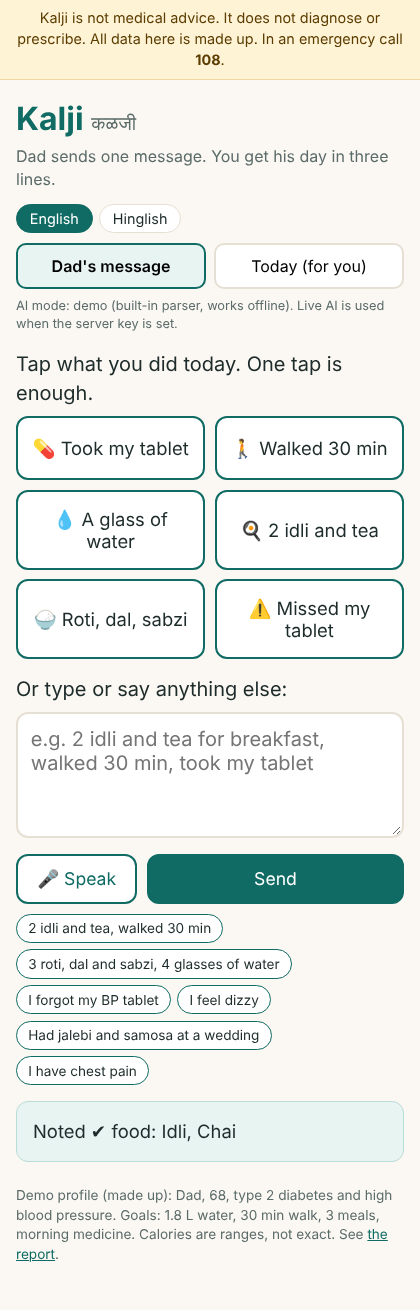
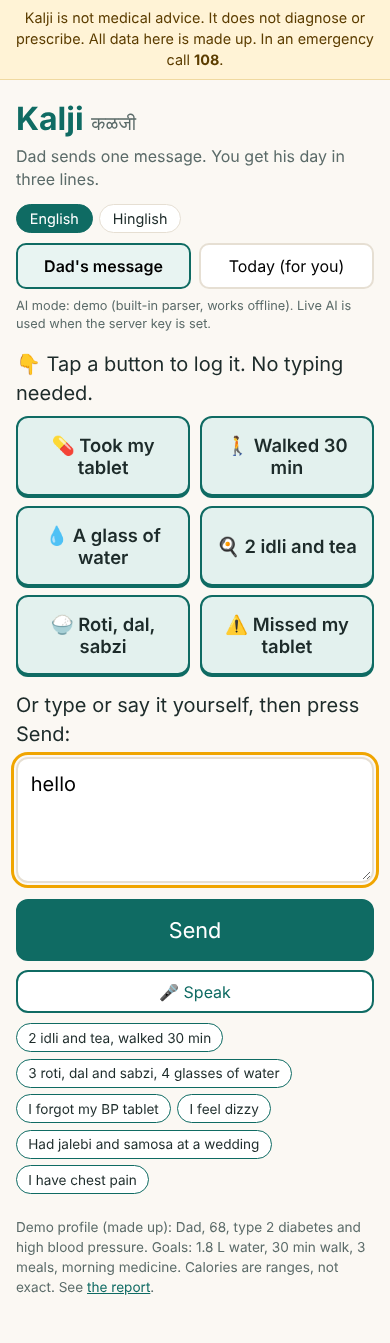
Q5 fixes: prominent Send, Enter to send, clearer presets, no-update summary wording; Q2 carers, Q5 report
Claude-Session: https://claude.ai/code/session_01A6zbvKyW5WtrDcwX4La53Q

diff --git a/app.js b/app.js
@@ -12,7 +12,7 @@
       notice: 'Kalji is not medical advice. It does not diagnose or prescribe. All data here is made up. In an emergency call <b>108</b>.',
       sub: 'Dad sends one message. You get his day in three lines.',
       tabPapa: "Dad's message", tabMe: 'Today (for you)',
-      prompt: 'Tap what you did today. One tap is enough.', prompt2: 'Or type or say anything else:', quickH: 'Quick log',
+      prompt: '👇 Tap a button to log it. No typing needed.', prompt2: 'Or type or say it yourself, then press Send:', quickH: 'Quick log',
       quick: [['💊 Took my tablet','I took my tablet'],['🚶 Walked 30 min','I walked 30 min'],['💧 A glass of water','I drank 1 glass of water'],['🍳 2 idli and tea','2 idli and tea'],['🍚 Roti, dal, sabzi','2 roti, dal and sabzi'],['⚠ Missed my tablet','I forgot my tablet']],
       ph: 'e.g. 2 idli and tea for breakfast, walked 30 min, took my tablet',
       mic: '🎤 Speak', send: 'Send', today: "Dad's day so far",
@@ -23,6 +23,7 @@
       alert1: 'This could be serious', alert2: 'See a doctor now or <a href="tel:108">call 108</a>. Kalji is not a doctor, so please do not wait on this.',
       q_walk: 'You mentioned a walk. How many minutes?', q_med: 'You mentioned medicine. Did you take it, or miss it?', q_dish: 'You ate something, but I did not recognise the dish. What was it?', q_nothing: 'I could not find food, water, a walk, medicine or a symptom in that message. Please try again.', q_empty: 'Please type something first.',
       micErr: 'The mic is not working. Please type instead.',
+      sNoData: 'No update from Dad yet today. That is not an alarm: he may be busy or resting. An alert appears only when a message mentions a warning sign.',
       nothingYet: 'Nothing logged yet', kcalSoFar: 'About {a}–{b} kcal so far (estimate)', waterOf: '{a} of {b} ml', walkOf: '{a} of {b} min',
       medTaken: 'Taken ✔', medMissed: 'Missed. Please call him.', medNone: 'Not mentioned yet', symNone: 'Nothing reported',
       sRed: 'Dad reported {x}. Call him now; if unreachable, call 108.', sMeals: 'Meals: {n} items logged, looks regular.', sMealsSo: 'Meals: {n} items so far', sNoLunch: ' (nothing since morning)',
@@ -36,7 +37,7 @@
       notice: 'Kalji medical advice nahi hai. Yeh diagnose ya dawai prescribe nahi karta. Yahan ka saara data made-up hai. Emergency me <b>108</b> call karo.',
       sub: 'Papa ek message bhejte hain. Aapko unka din teen lines me mil jata hai.',
       tabPapa: 'Papa ka message', tabMe: 'Aaj (aapke liye)',
-      prompt: 'Aaj kya kiya, bas tap karo. Ek tap kaafi hai.', prompt2: 'Ya kuch aur likho ya bolo:', quickH: 'Jaldi log karo',
+      prompt: '👇 Button dabao, log ho jayega. Likhna nahi padega.', prompt2: 'Ya khud likho ya bolo, phir Bhejo dabao:', quickH: 'Jaldi log karo',
       quick: [['💊 Goli li','goli li'],['🚶 30 min walk','30 min walk kiya'],['💧 Ek glass pani','1 glass pani piya'],['🍳 2 idli aur chai','2 idli aur chai'],['🍚 Roti dal sabzi','2 roti dal sabzi khayi'],['⚠ Goli bhool gaye','goli bhool gaye']],
       ph: 'jaise: subah 2 idli aur chai, 30 min walk, goli li',
       mic: '🎤 Bolo', send: 'Bhejo', today: 'Papa ka aaj ka din abhi tak',
@@ -47,6 +48,7 @@
       alert1: 'Yeh serious ho sakta hai', alert2: 'Abhi doctor ko dikhao ya <a href="tel:108">108 call karo</a>. Kalji doctor nahi hai, aur is par wait mat karo.',
       q_walk: 'Walk ki baat ki, kitne minute?', q_med: 'Dawai ki baat ki, li ya chhoot gayi?', q_dish: 'Kuch khaya, par mujhe dish samajh nahi aayi. Kya khaya tha?', q_nothing: 'Is message me khana, pani, walk, dawai ya koi takleef nahi mili. Dobara likho.', q_empty: 'Pehle kuch likho.',
       micErr: 'Mic kaam nahi kar raha. Please type kar do.',
+      sNoData: 'Papa ka aaj abhi tak koi update nahi aaya. Yeh alarm nahi hai: ho sakta hai busy ya aaram kar rahe hon. Alert tab aata hai jab message me koi warning sign ho.',
       nothingYet: 'Abhi kuch log nahi hua', kcalSoFar: 'Abhi tak lagbhag {a}–{b} kcal (andaza)', waterOf: '{b} ml me se {a} ml', walkOf: '{b} min me se {a} min',
       medTaken: 'Li ✔', medMissed: 'Chhoot gayi. Please unhe call karo.', medNone: 'Abhi bataya nahi', symNone: 'Koi takleef nahi batayi',
       sRed: 'Papa ne {x} bataya. Abhi call karo; na lage to 108.', sMeals: 'Khana: {n} items, theek lag raha hai.', sMealsSo: 'Khana: abhi tak {n} items', sNoLunch: ' (subah ke baad kuch nahi)',
@@ -169,6 +171,7 @@
     t.symptoms.forEach(function (x) { watch.push(symName(x)); });
     t.meals.forEach(function (m) { if (m.flags.indexOf('high sugar') >= 0) watch.push(tr('wSweet')); });
     s.push(watch.length ? '<span class="warn">' + esc(tr('sWatch', { x: watch.filter(function (v, i, a) { return a.indexOf(v) === i; }).join(', ') })) + '</span>' : tr('sOk'));
+    if (!today().day.entries.length) s = [tr('sNoData')];
     $('summary').innerHTML = s.map(function (x) { return '<li>' + x + '</li>'; }).join('');
 
     // proactive nudge: Kalji decides what to ask next, and drafts the message for the child to send
@@ -192,7 +195,7 @@
   $('tab-papa').onclick = function () { tab('papa'); };
   $('tab-me').onclick = function () { tab('me'); };
   $('send').onclick = function () { send(); };
-  $('msg').addEventListener('keydown', function (e) { if (e.key === 'Enter' && (e.ctrlKey || e.metaKey)) send(); });
+  $('msg').addEventListener('keydown', function (e) { if (e.key === 'Enter' && !e.shiftKey) { e.preventDefault(); send(); } });
 
   if (!SR) { $('mic').hidden = true; } else {
     $('mic').onclick = function () { var r = new SR(); r.lang = LANG === 'hi' ? 'hi-IN' : 'en-IN'; r.interimResults = false; r.onresult = function (e) { $('msg').value = (($('msg').value + ' ') + e.results[0][0].transcript).trim(); }; r.onerror = function () { $('reply').innerHTML = '<div class="reply">' + tr('micErr') + '</div>'; }; r.start(); };

diff --git a/style.css b/style.css
@@ -43,3 +43,8 @@ a{color:var(--teal)}
 .quick{display:grid;grid-template-columns:1fr 1fr;gap:.6rem}
 button.q{font-size:1.15rem;padding:1rem .6rem;min-height:64px;background:#fff;color:var(--ink);border:2px solid var(--teal);text-align:center}
 button.q:active{background:#e8f4f2}
+
+button.q{background:#e3f1ee;font-weight:600;box-shadow:0 2px 0 var(--teal)}
+.row{flex-wrap:wrap}
+#send{flex:1 1 100%;order:-1;font-size:1.35rem;padding:1rem}
+#mic{flex:1 1 100%;font-size:1rem;padding:.6rem}

diff --git a/REPORT.md b/REPORT.md
@@ -142,9 +142,14 @@
 - *Numbers cannot be trusted* (15 of 40). So Kalji shows calorie **ranges**, asks one question instead of guessing, and never reports "all fine" when data is missing.
 - *Paying does not feel worth it* (13 of 40). No paywall in the prototype; value comes first.
 - *Interview 7 (Sunil, 52)* asked for exactly the output: "a simple daily message telling me how much I walked and whether I reached my goal".
-- **The gap:** none of my ten interviewees was a carer, so Q1 supports the *mechanisms* (low effort, proactive nudges, ranges, simple output) but not directly the *customer's* need. [STUDENT: close this gap with the two questions below and report the answers; if you cannot, leave this sentence in, because it is accurate.]
+- **The gap, partly closed:** none of my ten Q1 interviewees was a carer, so Q1 supports the *mechanisms* (low effort, proactive nudges, ranges, simple output) but not directly the customer's need. Two carers (below) then confirmed the need, but two answers is a small sample.
 
-**Carer interviews** *(to add)*: [STUDENT: ask 2 people who worry about a parent's health: "How do you find out how your parent is doing day to day? What would make that easier?" and "Would you use an app where your parent just sends a WhatsApp-style message and you get a short daily summary? What worries you about it?" Paste their answers, with first name, age and city.]
+**Carer interviews** (asked the two questions: how do you find out how your parent is doing, and would you use a WhatsApp-style message with a daily summary?)
+
+- **Carer 1** [STUDENT: first name, age, city, method, date]: "I would definitely use it. A consolidated summary is much better than pinging them three times a day. My main concern is false alarms: if my parent just forgets to send the update because they are busy or taking a nap, I don't want to panic thinking something is wrong."
+- **Carer 2** [STUDENT: first name, age, city, method, date]: "Yes, the daily summary is perfect. My concern is the adoption curve. If the interface isn't exactly like a normal chat, or if they have to leave their actual WhatsApp to click a web link every day, they will likely stop using it after the first week."
+
+**What they add.** Both want the summary, which supports the need. Their worries are design rules: (1) *a missing update must never look like an emergency*, so when nothing has been logged Kalji now says "No update yet. That is not an alarm", and alerts appear only for warning-sign messages; (2) *it must feel like chat and not demand a new habit*. The prototype is a web page, not inside WhatsApp, so this concern is **not solved**: a WhatsApp-native version is the main risk to adoption (listed in Q4 as "Later").
 
 ## Q3. What does AI do in my app that ordinary software could not?
 
@@ -200,6 +205,7 @@
 | N03 | Red-flag rule layer | Build now | Safety that does not depend on a model. |
 | N04 | English / Hinglish toggle | Build now | Parents and children may prefer different languages; Goa users mix both. |
 | N06 | One-tap quick log ("Took my tablet", "Walked 30 min", "A glass of water", a typical meal, "Missed my tablet") | Build now | My own design decision, not user-test feedback: typing is the main cost of daily use (14 of 40), and an older parent may find it hard. Presets go through the same parser as typed text. To be checked in the user test (Q5). |
+| N07 | Inside WhatsApp (bot) instead of a web page | Later | Carer 2 expects the parent to stop if it is not like normal chat. Needs the WhatsApp Business API, approval and cost; out of scope for a prototype, but the biggest adoption risk. |
 | N05 | "Remember regular meals" | Later | Interview 6 asked for it; needs a stored history and tests. |
 
 **The core experience.** *First two minutes:* open the link → Papa's tab: one big box, a mic and example chips → type or say "2 idli aur chai, 30 min walk" → instant "Likh liya ✔" confirmation, or a single question if something is unclear. The child opens "Today": a three-line summary, bars and a suggested nudge. *Normal day:* Papa sends 2-3 lines; the child glances at the summary once in the evening and sends a suggested nudge when something is missing.
@@ -213,9 +219,20 @@ Screenshots (English and Hinglish): ![Dad's message](docs/screens/1-papa-message
 
 ## Q5. User test
 
-> **TODO (you must do this):** show the live link to at least one adult-child of a parent 60+ (a classmate or family friend who fits). Watch without helping. Record: who, what they did, where they hesitated, what you changed (even a small copy or button fix), with a commit link.
+**Who tested it:** Yoganand, 58, Goa [STUDENT: method (in person or WhatsApp) and date]. He is in the target group's parent generation, not the carer, so this tests the *parent's* side of the app. Tested on the live link before the changes below; one tester only.
 
-**Who tested it, what they did, what confused them, and what I changed:** [ ]
+**What he did:** he ignored the six one-tap buttons completely, tapped into the text box and typed his update by hand.
+
+**What confused him:**
+1. The one-tap buttons did not look like buttons he was meant to press.
+2. After typing, he hesitated about how to submit; the Send button was not prominent enough.
+
+**What I changed (commit "Q5 fixes"):**
+- Send is now a full-width, large button, and pressing Enter sends (Shift+Enter makes a new line).
+- Added a clear instruction above the presets ("Tap a button to log it. No typing needed.") and gave them a filled, raised style so they read as buttons.
+- From the carers' feedback (Q2): with no update yet, the summary now says "No update from Dad yet today. That is not an alarm", instead of the earlier "Nothing to worry about so far", which wrongly implied all was well.
+
+**What this does not show.** One tester ignored the presets, so my own call to build them (Q4, N06) is **not validated**. If a second tester also types, the presets should be cut or redesigned, and typing and voice remain the main path. I have not re-tested the new layout with him. A further limit: the tester used the app on his own; a real parent would send messages over weeks, and I have not tested that.
 
 ## References
 
